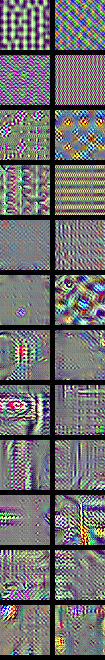
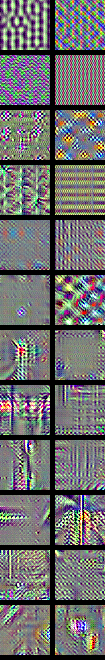
fix: make image size input shape agnostic

diff --git a/optical_toolkit/insight/cnn_filters.py b/optical_toolkit/insight/cnn_filters.py
@@ -1,7 +1,7 @@
 from tensorflow import keras
 
 from .functions.filter_patterns import generate_filter_patterns
-from .functions.models_and_layers import instantiate_model, get_layer, get_conv_layers
+from .functions.models_and_layers import instantiate_model, get_layer, get_conv_layers, infer_input_size
 from .functions.stitched_image import stitched_image, concat_images
 
 
@@ -19,6 +19,7 @@ def display_filters(model_path, layer_name=None, num_filters=16, output_path=Non
         None
     """
     model = instantiate_model(model_path, model_custom_objects)
+    img_sz = infer_input_size(model)
     layer = get_layer(model, layer_name)
 
     if layer.filters < num_filters:
@@ -26,13 +27,10 @@ def display_filters(model_path, layer_name=None, num_filters=16, output_path=Non
 
     feature_extractor = keras.Model(inputs=model.input, outputs=layer.output)
 
-    # custom models are incompatible with this (i.e., how do I make custom models input shape agnostic)
-    IMG_SZ = 100
-
     filters = generate_filter_patterns(
-        layer, num_filters, IMG_SZ, feature_extractor)
+        layer, num_filters, img_sz, feature_extractor)
 
-    stitched_filters = stitched_image(filters, num_filters, IMG_SZ)
+    stitched_filters = stitched_image(filters, num_filters, img_sz)
 
     if output_path is None:
         output_path = f"{layer.name}_layer_filters.png"
@@ -54,6 +52,7 @@ def display_model_filters(model_path, num_filters=16, output_path=None, model_cu
         None
     """
     model = instantiate_model(model_path, model_custom_objects)
+    img_sz = infer_input_size(model)
     conv_layers = get_conv_layers(model)
     conv_layer_names = [conv_layer.name for conv_layer in conv_layers]
 
@@ -75,8 +74,6 @@ def display_model_filters(model_path, num_filters=16, output_path=None, model_cu
     selected_layer_names = [conv_layer_names[i] for i in layer_indices]
 
     layer_filters = []
-    # custom models are incompatible with this (i.e., how do I make custom models input shape agnostic)
-    IMG_SZ = 100
 
     for layer_name in selected_layer_names:
         layer = model.get_layer(layer_name)
@@ -88,9 +85,9 @@ def display_model_filters(model_path, num_filters=16, output_path=None, model_cu
             inputs=model.input, outputs=layer.output)
 
         filters = generate_filter_patterns(
-            layer, num_filters, IMG_SZ, feature_extractor)
+            layer, num_filters, img_sz, feature_extractor)
 
-        stitched_filters = stitched_image(filters, num_filters, IMG_SZ)
+        stitched_filters = stitched_image(filters, num_filters, img_sz)
         layer_filters.append(stitched_filters)
 
     layer_filters = concat_images(layer_filters, axis=0)

diff --git a/optical_toolkit/insight/functions/models_and_layers.py b/optical_toolkit/insight/functions/models_and_layers.py
@@ -14,7 +14,7 @@ from tensorflow.keras.applications import (
 def instantiate_model(model_path, model_custom_objects):
     if model_custom_objects is None:
         model_custom_objects = {}
-        
+
     # Check if model_path corresponds to a pretrained model name
     pretrained_models = {
         "xception": Xception,
@@ -35,7 +35,8 @@ def instantiate_model(model_path, model_custom_objects):
         # Load the model from the specified path
         try:
             print(model_custom_objects)
-            model = tf.keras.models.load_model(model_path, custom_objects=model_custom_objects)
+            model = tf.keras.models.load_model(
+                model_path, custom_objects=model_custom_objects)
         except ValueError as e:
             raise ValueError(f"{e}: Model not found")
 
@@ -63,3 +64,8 @@ def get_conv_layers(model):
     return [
         layer for layer in model.layers if isinstance(layer, tf.keras.layers.Conv2D)
     ]
+
+
+def infer_input_size(model):
+    size = model.inputs[0].shape[1]
+    return size if size else 100
